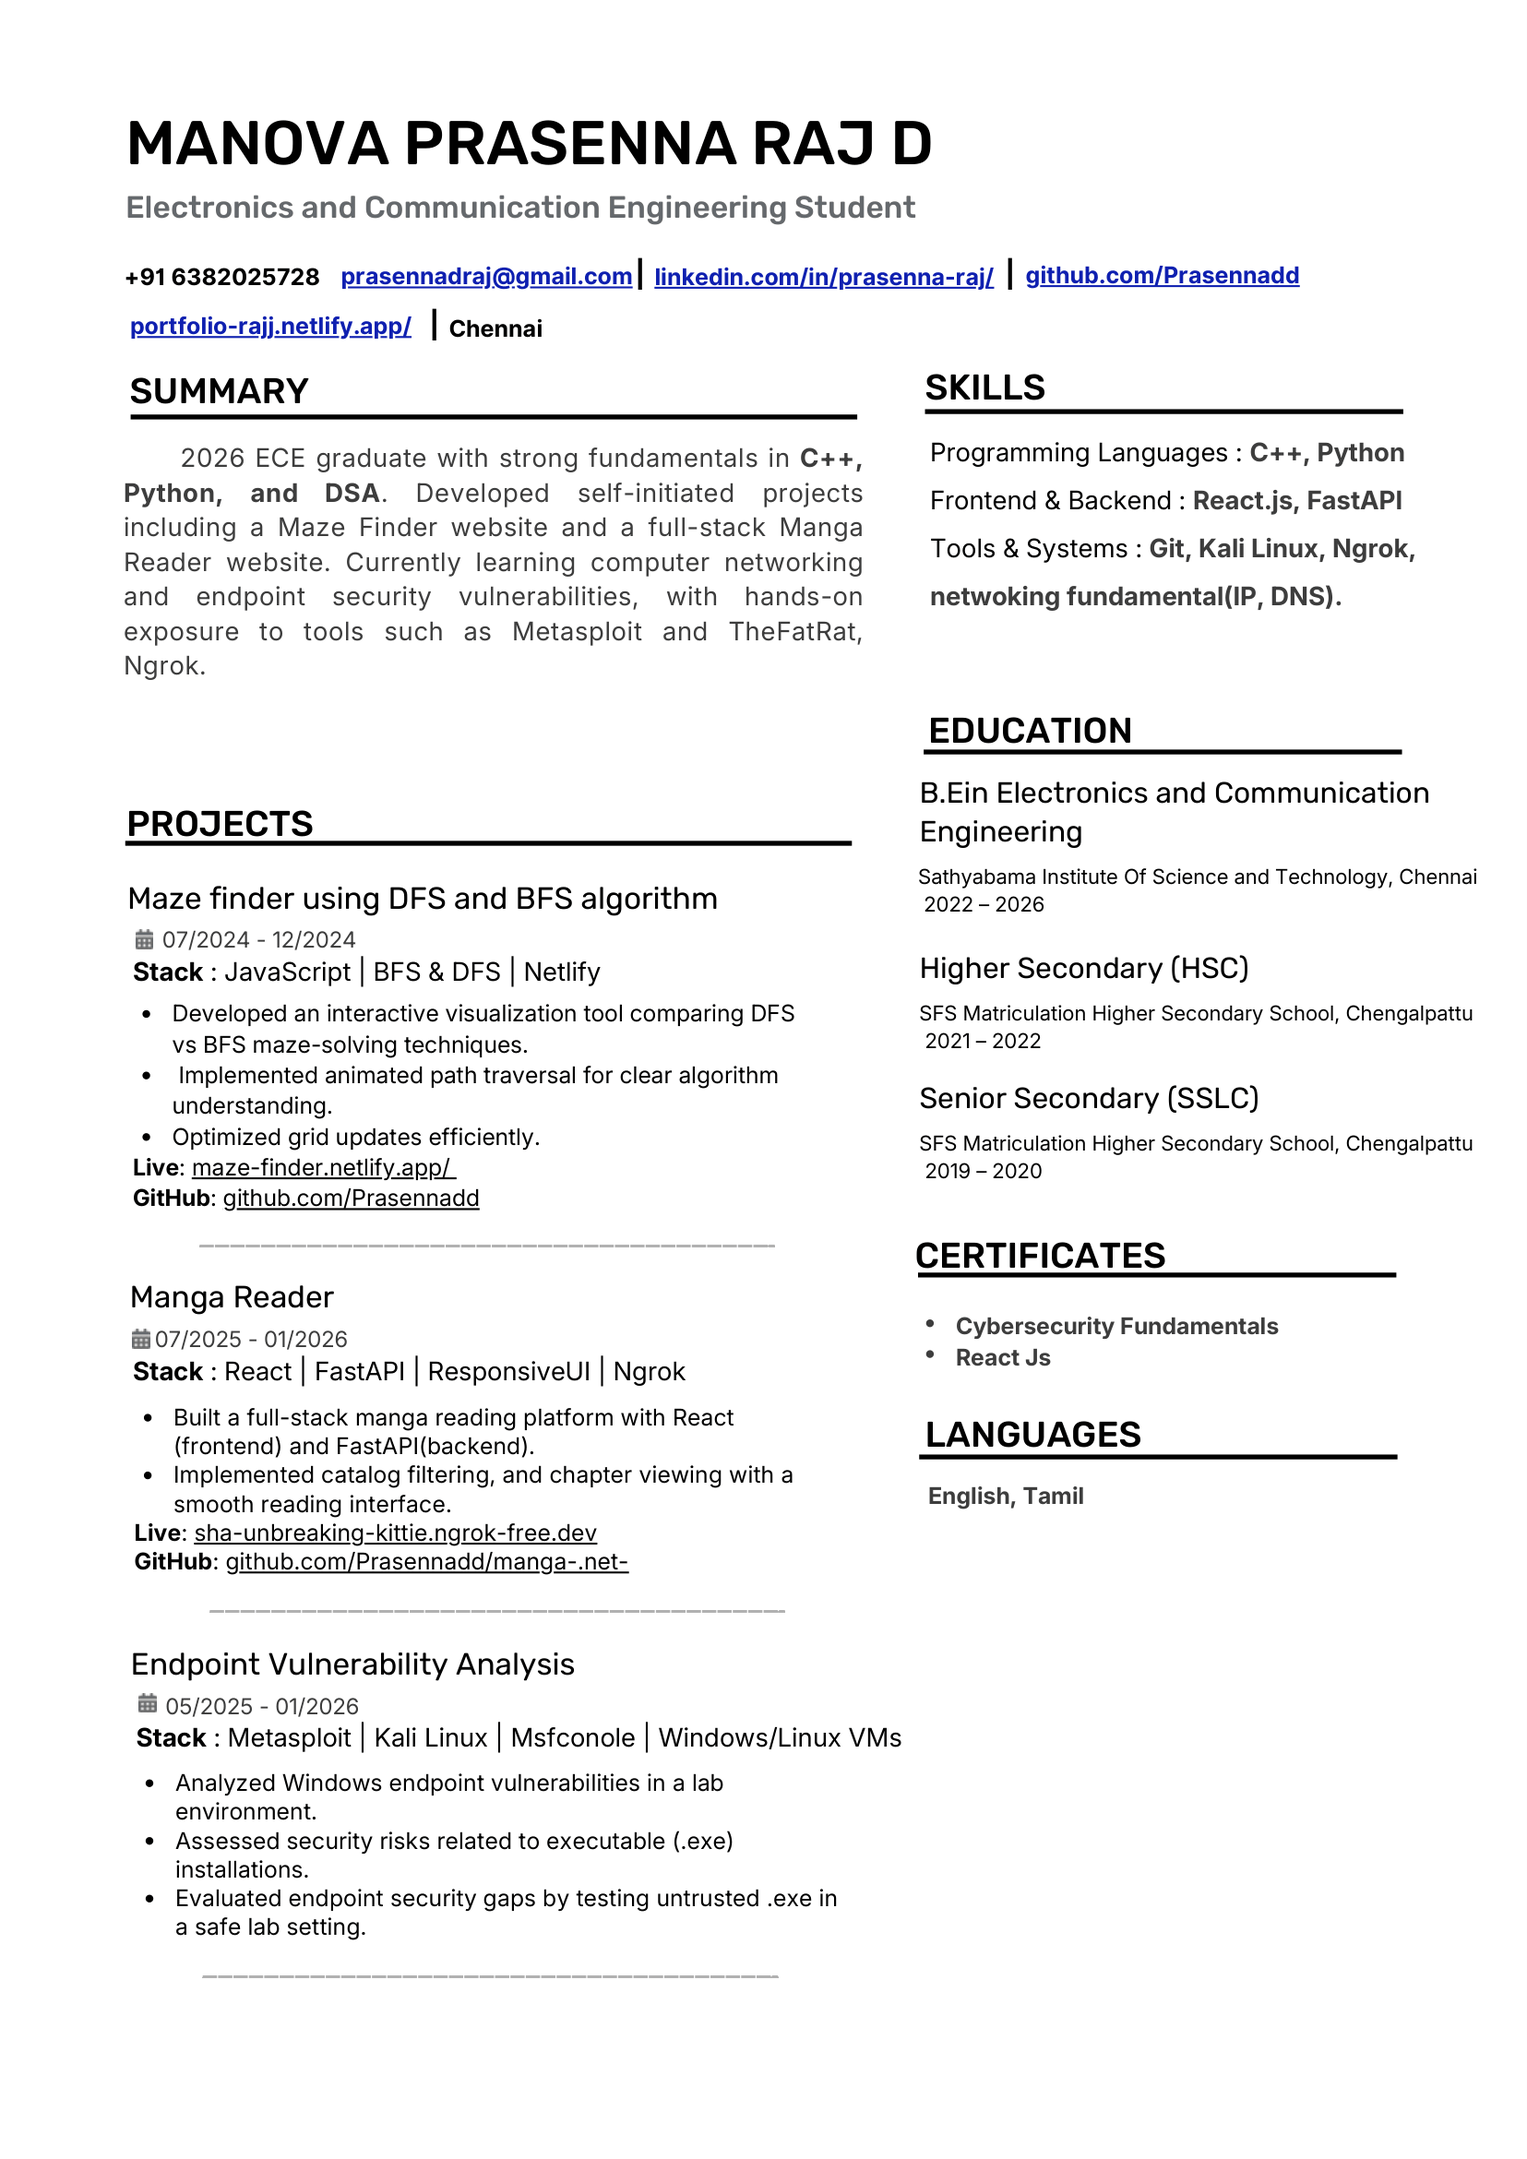
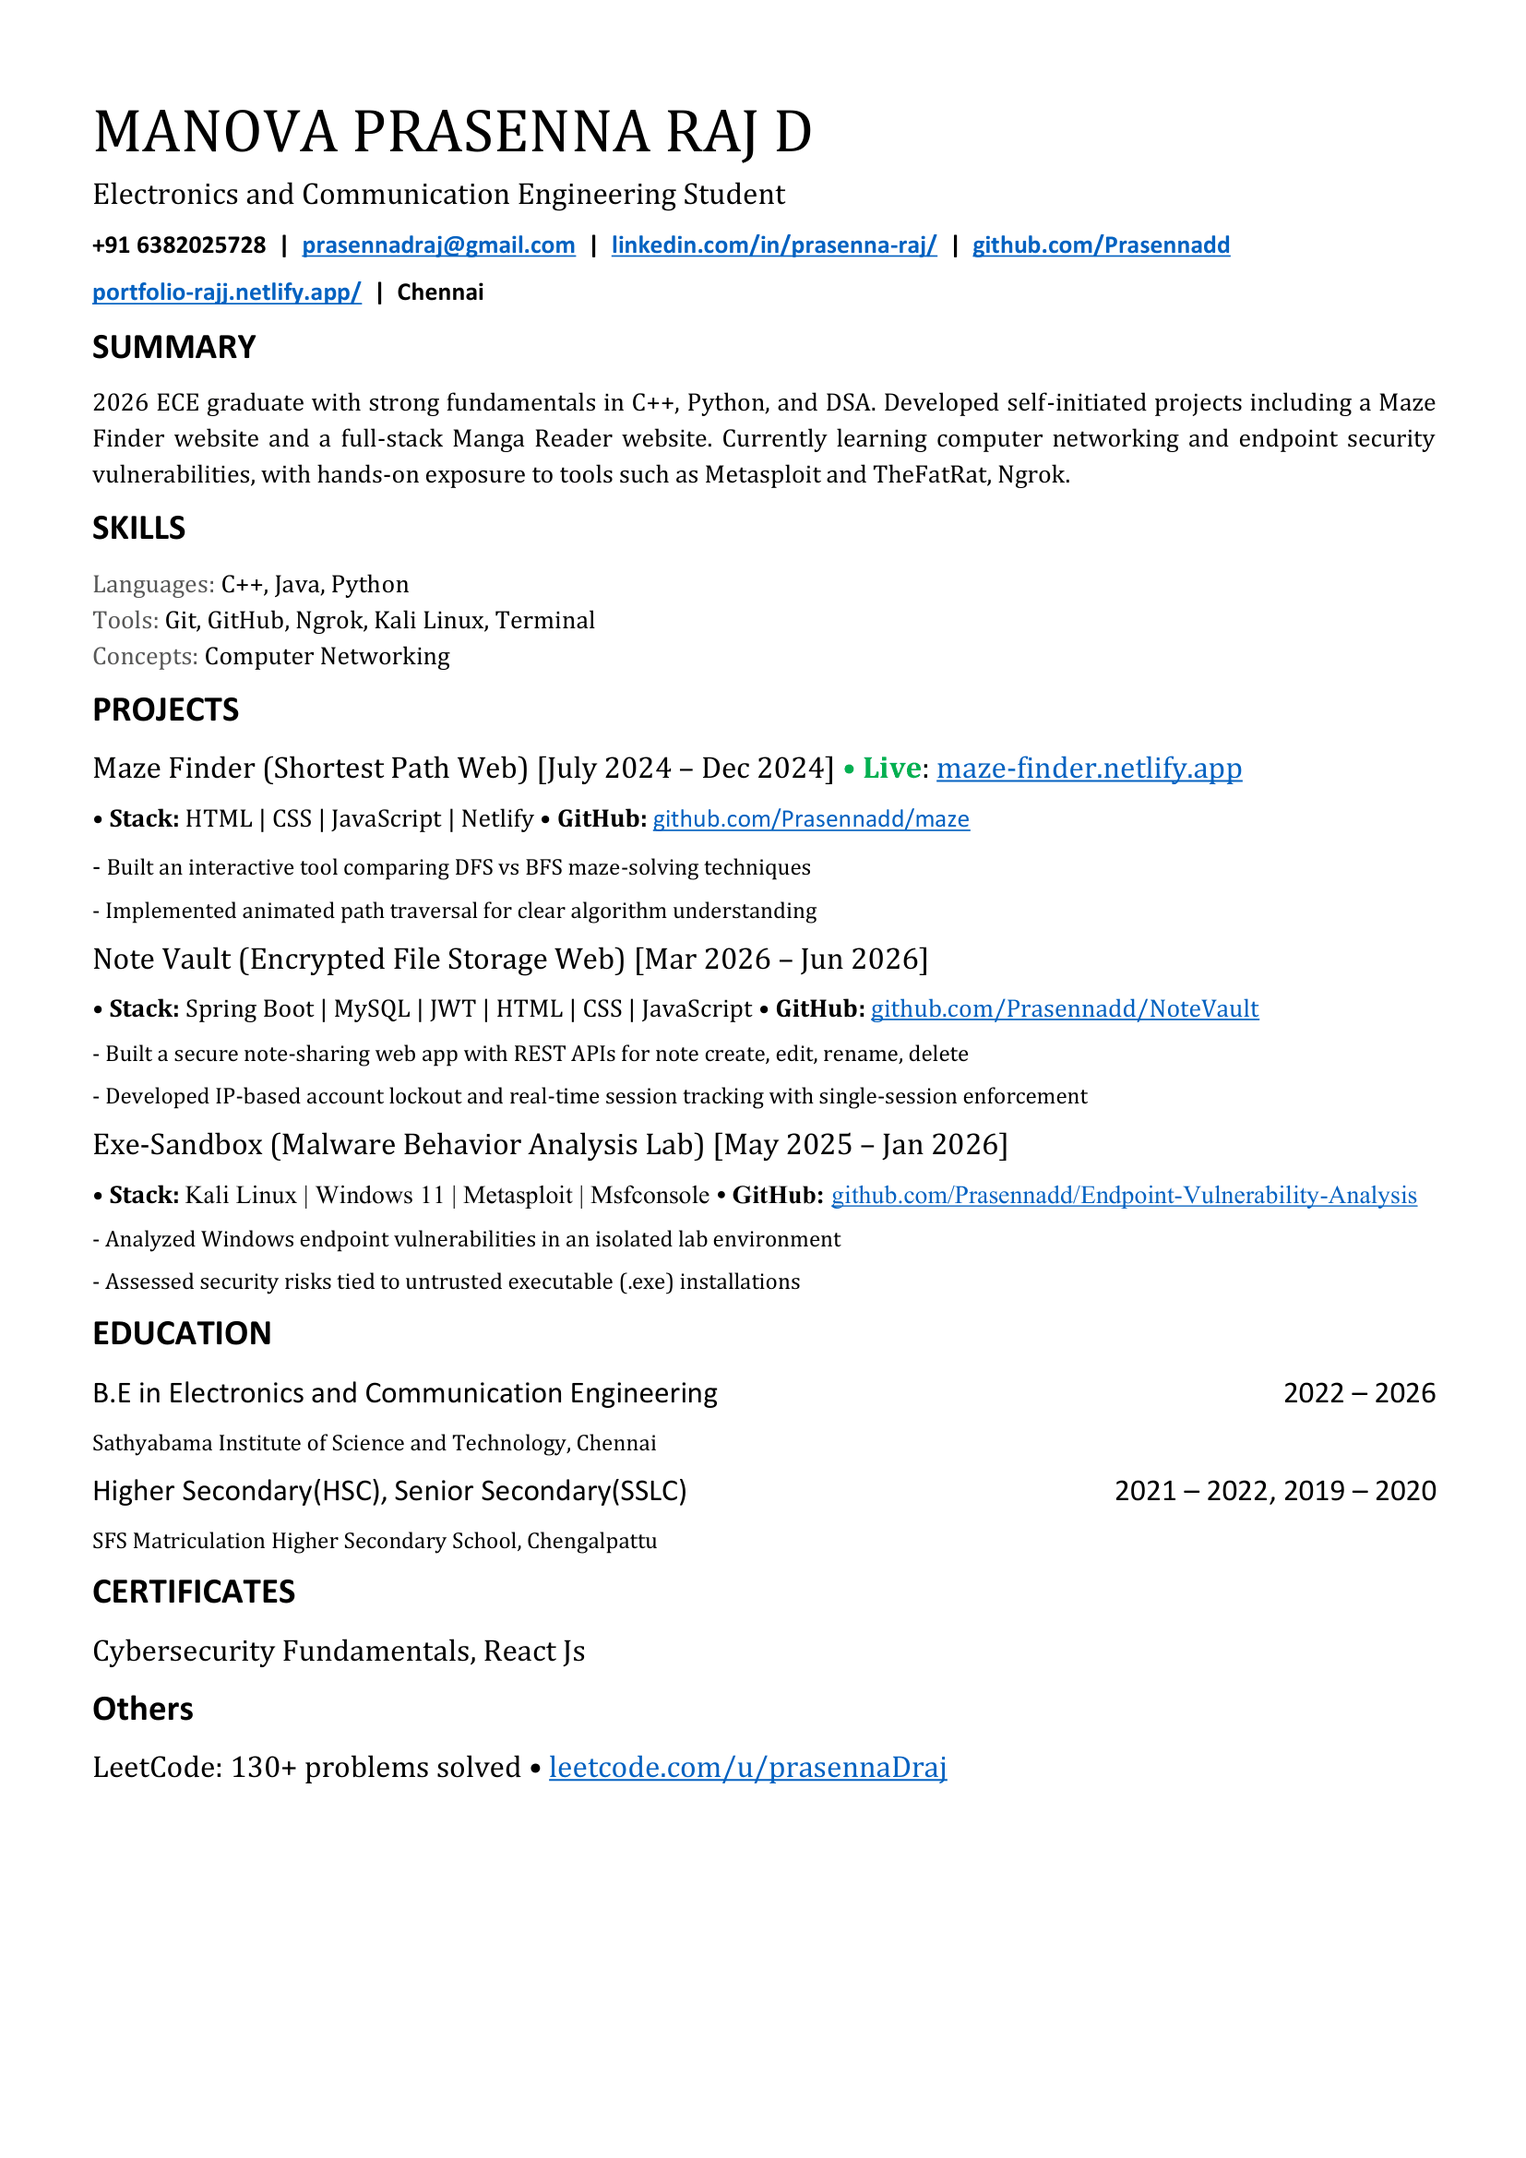
Initial portfolio commit

diff --git a/script.js b/script.js
@@ -8,26 +8,56 @@ const style = document.createElement('style');
 const below = document.getElementById('below');
 const inputLine = document.getElementById('input-line');
 const commands = {
-help: 'Available commands:\nhelp - show commands\nabout -\nprojects -\nskills -\nexperience -\ncontact -\neducation -\ncertifications -\nclear - clear screen',
-about: 'Hi, This is Prasenna Raj,\nA passionate Web Developer,had a good knowledge in Frontend , Backend and API. I enjoy building dynamic web applications , played with DSA and exploring data science.\nType "skills" to see my technical stack \nType "projects" to view my work.',
+help: 'Available commands:\nhelp - show commands\nabout - who I am\nprojects - things I have built\nskills - my technical stack\nexperience - practice and achievements\ncontact - how to reach me\neducation - my degrees\ncertifications - certificates and achievements\nresume.img - view resume\nclear - clear screen',
+about: 'Hi, This is Prasenna Raj,\n\nA passionate problem solver, programmer, computer networking enthusiast, and web developer with good knowledge of frontend, backend, and APIs. I enjoy building dynamic web applications, solving DSA problems, exploring computer networking, and learning about endpoint security.\n\n💡 Tip: type "skills" to see my technical stack.\n💡 Tip: type "projects" to view my work.',
 hi:"\nHow may I assist you...,\n:), just type help or /help\n...\nDon't type hacker",
 hacker:"Yes, that's me \nHow do u know!!",
-projects: 'Hello, Once again, i had done 4 projects with one embbeded project.\n|Manga reader (Used API call and index searching)\n|Search engine\n|Next word predict(meachine learning based)\n|A on going game project\n|Thristy roots (Which is embedded)',
-skills: 'Technical Skills:\nProgramming Languages:\n|Java |C++ |JavaScript \nWeb Technologies:\n|HTML |CSS |React |.NET |REST API ',
-experience: 'As an engineer, i am eger to learn and explore. Which is why i seeking for job to satitify my part and grow with them.i had done a 4-5 projects',
-contact: 'This is most important part of the site, This is displayed only when u eger to make a touch with me and i will also touch u.\nMy Contact INFO:\nph 91+ 6382025728 \ngmail : prasennadraj@gmail.com\nHence, this is the END, SEE U SOON!!!',
-education: 'As common, i had done 12th , 10th and B.E.\n|12th with score of 80% and \n|10th with score of 83%\nBE ECE current CGPA of 8',
-certifications: 'hello!! Visitor\nI had done \n|Meachine learning ()through instshall\n|IOT (through NPETL)  ',
+projects: '\n[1] Maze Finder (Shortest Path Web) | Jul 2024 - Dec 2024\n    Stack: HTML, CSS, JavaScript, Netlify\n    - Compares DFS vs BFS maze solving with animated path traversal\n    \n    Live: https://maze-finder.netlify.app/\n    GitHub: https://github.com/Prasennadd\n\n[2] NoteVault (Secure Notes Web App) | Mar 2026 - Jun 2026\n    Stack: Spring Boot, MySQL, JWT, HTML, CSS, JavaScript\n    - REST APIs to create, edit, rename and delete notes\n    - IP-based account lockout and single active-session enforcement\n    GitHub: https://github.com/Prasennadd/NoteVault\n\n[3] Exe-Sandbox (Malware Behavior Analysis Lab) | May 2025 - Jan 2026\n    Stack: VirtualBox, Kali Linux, Windows 11, Metasploit\n    - Analyzed Windows endpoint vulnerabilities in an isolated lab\n    - Tested untrusted .exe files safely to find security gaps\n    GitHub: https://github.com/Prasennadd/Endpoint-Vulnerability-Analysis',
+skills: '\nLanguages : C++, Java, Python, JavaScript\nBackend   : Spring Boot, MySQL, REST APIs, JWT\nTools     : Git, GitHub, Ngrok, Kali Linux, Metasploit, Terminal\nConcepts  : Computer Networking, Endpoint Security, DSA',
+
+experience: '\nFresher - open to internships and entry-level roles.\n\nSelf-initiated work:\n- Built 3 projects (web app, full-stack app, security lab)\n- Solved 130+ LeetCode problems',
+
+contact: '\nEmail    : prasennadraj@gmail.com\nLinkedIn : https://linkedin.com/in/prasenna-raj/\nGitHub   : https://github.com/Prasennadd\nLocation : Chennai, India',
+education: '\nB.E. Electronics and Communication Engineering | 2022 - 2026\nSathyabama Institute of Science and Technology, Chennai\n\nHigher Secondary (HSC) | 2021 - 2022\nSFS Matriculation Higher Secondary School, Chengalpattu\n\nSenior Secondary (SSLC) | 2019 - 2020\nSFS Matriculation Higher Secondary School, Chengalpattu',
 date: new Date().toString(),
 whoami: 'manova_prasenna_raj\nrole: Software Engineer & AI Enthusiast',
 pwd: '/home/manova/portfolio',
-social: 'GitHub  : github.com/yourusername\nLinkedIn: linkedin.com/in/yourusername\nEmail   : prasennadraj@gmail.com',
+social: '\nGitHub  : github.com/yourusername\nLinkedIn: linkedin.com/in/yourusername\nEmail   : prasennadraj@gmail.com',
 ls: 'resume.img \nJust type resume.img to open the img',
 'resume.img':'',
 };
 
 const mask = document.getElementById("front");
 const hoverTarget = document.getElementById("f");
+
+const speeds = [
+    { name: 'SLOW', delay: 150 },
+    { name: 'NORMAL', delay: 50 },
+    { name: 'FAST', delay: 15 },
+    { name: 'SUPER FAST', delay: 1 }
+];
+
+let currentSpeed = 1;
+
+const speedControl = document.getElementById('speed-control');
+const speedValue = document.getElementById('speed-value');
+
+speedControl.addEventListener('click', () => {
+    currentSpeed++;
+
+    if (currentSpeed >= speeds.length) {
+        currentSpeed = 0;
+    }
+
+    speedValue.textContent = speeds[currentSpeed].name;
+
+    console.log(
+        'Speed:',
+        speeds[currentSpeed].name,
+        'Delay:',
+        speeds[currentSpeed].delay
+    );
+});
 
 let isHovered = false;
 
@@ -53,16 +83,24 @@ document.addEventListener("mousemove", (e) => {
 });
 
 function checkScrollHint() {
-  if (output.scrollHeight > output.clientHeight) {
-    const hint = document.createElement('div');
-    hint.textContent = "💡 Tip: type 'clear' to clear the screen";
-    hint.style.color = '#888';
-    hint.style.fontStyle = 'italic';
-    hint.style.marginTop = '4px';
-    hint.style.marginBottom = '4px';
-    output.appendChild(hint);
+    let hint = document.getElementById('scroll-hint');
+
+    if (output.scrollHeight > output.clientHeight) {
+        if (!hint) {
+            hint = document.createElement('div');
+            hint.id = 'scroll-hint';
+            hint.textContent = "💡 Tip: type 'clear' to clear the screen";
+            hint.style.color = '#888';
+            hint.style.fontStyle = 'italic';
+            hint.style.marginTop = '4px';
+            hint.style.marginBottom = '4px';
+            output.appendChild(hint);
+        }
+    } else if (hint) {
+        hint.remove();
+    }
+
     output.scrollTop = output.scrollHeight;
-  }
 }
 hoverTarget.addEventListener("mouseenter", () => {
     isHovered = true;
@@ -115,7 +153,8 @@ if(i==0)
   i++;
   appendOutput(use_r);
   appendOutput(`Welcome`);
-  appendOutputAnimated(`Hello!, I'm Manova Prasenna Raj, a Software Engineer & AI Enthusiast. \nWelcome to my interactive portfolio terminal, \nType 'help' to see avaiable commands.  `);
+  appendOutputAnimated(`Hello!, I'm Manova Prasenna Raj, a passionate fresher with a strong interest in problem-solving, programming, and computer networking. I enjoy exploring new technologies, building practical projects, and continuously improving my technical skills. I am always eager to learn, adapt, and take on new challenges in the technology field. \n💡 Tip: type 'help' to see avaiable commands. `);
+  
 }
 
 fakeInput.focus();
@@ -153,6 +192,8 @@ fakeInput.addEventListener('keydown', (e) => {
   // ENTER KEY (execute command)
   if (e.key === 'Enter') {
     e.preventDefault();
+    currentSpeed = 1;
+    speedValue.textContent = speeds[currentSpeed].name;
     const input = fakeInput.innerText.trim();
 
     // save to history if not empty
@@ -170,7 +211,7 @@ fakeInput.addEventListener('keydown', (e) => {
     appendOutput(`${input}`);
     const firstWord = input.split(" ")[0].toLowerCase();
 
-    if (input.toLowerCase() === 'clear') {
+    if (input.toLowerCase() === 'clear' || input.toLowerCase()==='cls') {
       fakeInput.innerText = '';
       output.innerHTML = '';
       // body.style.overflow='hidden';
@@ -184,15 +225,20 @@ fakeInput.addEventListener('keydown', (e) => {
       appendOutputAnimated(commands['help']);
     }
 else if (input.toLowerCase() === 'resume.img') {
-  const img = document.createElement('img');
-  img.src = './files/resume.png'; // update path/extension to match your converted file
-  img.style.maxWidth = '440px';
-  img.style.maxHeight = '700px';
-  img.style.borderRadius = '6px';
-  img.style.display = 'block';
-  img.style.marginTop = '8px';
-  output.appendChild(img);
-  output.scrollTop = output.scrollHeight;
+    const img = document.createElement('img');
+
+    img.src = './files/resume.png?v=' + Date.now();
+    img.style.maxWidth = '440px';
+    img.style.maxHeight = '700px';
+    img.style.borderRadius = '6px';
+    img.style.display = 'block';
+    img.style.marginTop = '8px';
+
+    output.appendChild(img);
+
+    img.onload = () => {
+        output.scrollTop = 0;
+    };
 }
     else if (commands[input.toLowerCase()]) {
       append(commands[input.toLowerCase()]);
@@ -202,9 +248,9 @@ else if (input.toLowerCase() === 'resume.img') {
       appendOutputAnimated(`Command not found: ${input}`);
     }
 
-    if (['skills','projects','contact','education','certifications'].includes(input.toLowerCase())) {
-      belowdiv(input);
-    }
+    // if (['skills','projects','contact','education','certifications'].includes(input.toLowerCase())) {
+    //   belowdiv(input);
+    // }
 
     const B = document.createElement('div');
     B.style.marginBottom = '10px';
@@ -214,31 +260,59 @@ else if (input.toLowerCase() === 'resume.img') {
 });
 
 function appendOutputAnimated(text) {
+
+    // Progress bar goes in FIRST so it appears above the text
+    const progressLine = document.createElement('div');
+    const totalBars = 20;
+    progressLine.textContent = `[${'-'.repeat(totalBars)}]`;
+    output.appendChild(progressLine);
+
+    // Text line goes in SECOND so it appears below the bar
     const line = document.createElement('div');
     output.appendChild(line);
 
     let i = 0;
-    const interval = setInterval(() => {
-        line.textContent += text.charAt(i);
-        i++;
-        if (i >= text.length) {
-        clearInterval(interval);
-        const spacer = document.createElement('div');
-        spacer.style.marginBottom = '10px';
-        output.appendChild(spacer);
-        output.scrollTop = output.scrollHeight;
-        checkScrollHint();
+
+    function typeNextCharacter() {
+
+        if (i < text.length) {
+
+            line.innerHTML += text.charAt(i);
+            i++;
+            if (text.substring(i, i + 5) === "Live:") {
+
+                const live = document.createElement('span');
+                live.style.color = "yellow";
+                live.textContent = "Live:";
+                line.appendChild(live);
+
+                i += 5;
+
+            }
+
+            const filledBars = Math.floor((i / text.length) * totalBars);
+            progressLine.textContent =
+                `[${'#'.repeat(filledBars).padEnd(totalBars, '-')}]`;
+
+            output.scrollTop = output.scrollHeight;
+
+            setTimeout(typeNextCharacter, speeds[currentSpeed].delay);
+
+        } else {
+
+            progressLine.textContent = `[${'#'.repeat(totalBars)}]`;
+
+            const spacer = document.createElement('div');
+            spacer.style.marginBottom = '10px';
+            output.appendChild(spacer);
+
+            output.scrollTop = output.scrollHeight;
+            checkScrollHint();
+        }
     }
-  }, 50);
-    output.scrollTop = output.scrollHeight;
 
-
-  const h1 = document.createElement('h1');
-  h1.textContent = text;
-  h1.style.fontSize = '3rem';
-  h1.style.fontFamily = 'monospace';
+    typeNextCharacter();
 }
-
 
 const g = document.getElementById('g');
 t.style.opacity = '0';
@@ -286,26 +360,33 @@ function appendOutput(text) {
   output.scrollTop = output.scrollHeight;
 }
 function append(text) {
-  const line = document.createElement('div');
-  output.appendChild(line);
+    const line = document.createElement('div');
+    output.appendChild(line);
 
-  const totalBars = 20;
-  let filledBars = 0;
+    const totalBars = 20;
+    let filledBars = 0;
 
-  // Use same timing as appendOutputAnimated
-  const typingSpeed = 50; // same as animated typing
-  const textDuration = text.length * typingSpeed; // total time to type text
-  const intervalTime = textDuration / totalBars;
+    const typingSpeed = speeds[currentSpeed].delay;
 
-  const interval = setInterval(() => {
-    const progress = '#'.repeat(filledBars).padEnd(totalBars, '-');
-    line.textContent = `[${progress}]`;
-    filledBars++;
+    // Match the progress bar duration to the text animation
+    const textDuration = text.length * typingSpeed;
 
-    if (filledBars > totalBars) {
-      clearInterval(interval);
-    }
-  }, intervalTime);
+    // How often each # should appear
+    // const intervalTime = textDuration / totalBars;
+
+    // const interval = setInterval(() => {
+
+    //     const progress = '#'.repeat(filledBars).padEnd(totalBars, '-');
+
+    //     line.textContent = `[${progress}]`;
+
+    //     filledBars++;
+
+    //     if (filledBars > totalBars) {
+    //         clearInterval(interval);
+    //     }
+
+    // }, intervalTime);
 }
 
 // Resizer

diff --git a/style.css b/style.css
@@ -11,6 +11,39 @@
     /* background: white; */
     /* cursor: url(files/mask.svg),auto; */
     }
+#terminal {
+    position: relative;
+}
+
+#speed-control {
+    position: absolute;
+    top: 10px;
+    right: 15px;
+
+    z-index: 10;
+
+    color: #888;
+    font-family: monospace;
+    font-size: 12px;
+
+    cursor: pointer;
+    user-select: none;
+
+    padding: 4px 8px;
+    border: 1px solid #444;
+    border-radius: 4px;
+
+    background: transparent;
+}
+
+#speed-control:hover {
+    color: #33ff33;
+    border-color: #33ff33;
+}
+
+#speed-value {
+    color: #33ff33;
+}
 body::-webkit-scrollbar {
   /* opacity: 0; */
   /* background: transparent; */

diff --git a/index.html b/index.html
@@ -10,6 +10,9 @@
     <div class="main">
     <div id="container">
         <div id="terminal">
+        <div id="speed-control">
+        SPEED: <span id="speed-value">NORMAL</span>
+        </div>
         <div id="output"></div>
         <div id="input-line">
             <span class="prompt">user@site:~$</span>
